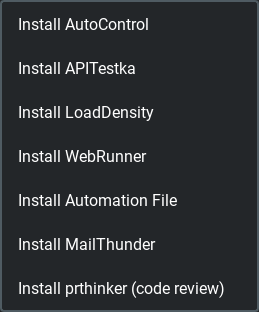
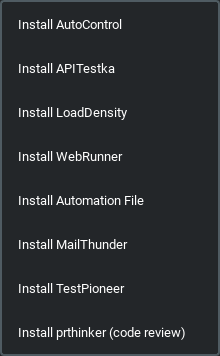
Install TestPioneer from the Install menu

diff --git a/pybreeze/extend_multi_language/extend_traditional_chinese.py b/pybreeze/extend_multi_language/extend_traditional_chinese.py
@@ -99,6 +99,7 @@ pybreeze_traditional_chinese_word_dict = {
     "install_menu_webrunner": "安裝 WebRunner",
     "install_menu_automation_file": "安裝 Automation File",
     "install_menu_mail_thunder": "安裝 MailThunder",
+    "install_menu_test_pioneer": "安裝 TestPioneer",
     "install_menu_prthinker": "安裝 prthinker（程式碼審查）",
     "install_menu_tools_install_menu_label": "工具",
     "install_menu_tools_install_build_tools": "安裝 Build Tools",

diff --git a/pybreeze/extend_multi_language/extend_english.py b/pybreeze/extend_multi_language/extend_english.py
@@ -104,6 +104,7 @@ pybreeze_english_word_dict = {
     "install_menu_webrunner": "Install WebRunner",
     "install_menu_automation_file": "Install Automation File",
     "install_menu_mail_thunder": "Install MailThunder",
+    "install_menu_test_pioneer": "Install TestPioneer",
     "install_menu_prthinker": "Install prthinker (code review)",
     "install_menu_tools_install_menu_label": "Tools",
     "install_menu_tools_install_build_tools": "Install Build Tools",

diff --git a/test/test_utils/test_install_menu.py b/test/test_utils/test_install_menu.py
@@ -144,6 +144,7 @@ class TestTheAutomationInstallMenu:
             (words.get("install_menu_webrunner"), "je_web_runner"),
             (words.get("install_menu_automation_file"), "automation_file"),
             (words.get("install_menu_mail_thunder"), "je_mail_thunder"),
+            (words.get("install_menu_test_pioneer"), "test_pioneer"),
         ]
         assert menu.actions()[-1].text() == words.get("install_menu_prthinker")
 

diff --git a/pybreeze/pybreeze_ui/menu/install_menu/automation_menu/build_automation_install_menu.py b/pybreeze/pybreeze_ui/menu/install_menu/automation_menu/build_automation_install_menu.py
@@ -24,6 +24,7 @@ PYPI_PACKAGES: tuple[tuple[str, str], ...] = (
     ("install_menu_webrunner", "je_web_runner"),
     ("install_menu_automation_file", "automation_file"),
     ("install_menu_mail_thunder", "je_mail_thunder"),
+    ("install_menu_test_pioneer", "test_pioneer"),
 )
 
 

diff --git a/progress.md b/progress.md
@@ -15,5 +15,5 @@ Cross-repo and workspace items live in `D:\Codes\progress.md` (relevant here: X-
 - **#92** [DECIDE] The embedded JupyterLab has no token (`--ServerApp.token=`): the loopback bind keeps browsers and other machines out, but not other accounts on a shared machine (RDS, a lab Linux box), which get a kernel as the IDE user. Generate a token per launch and load the view with it? The Security › JupyterLab rule would change with it.
 - **#102** [BLOCKED] A report mail can wait forever: je_mail_thunder's `SMTPWrapper(host, port)` passes no timeout to `SMTP_SSL`, so a mail server that accepts the connection and then stalls holds the report-mail thread (`extend/mail_thunder_extend/mail_thunder_setting.py`, `send_report`) with no end, and the run window never says whether the report went. Needs a `timeout` argument in MailThunder (`je_mail_thunder/smtp/smtp_wrapper.py:20`); then pass 30 s here.
 - **#103** [BLOCKED] PyBreeze's automation keywords are never highlighted: `syntax_extend_package` registers them for `.json`, `.yml` and `.yaml` (`pybreeze_ui/syntax/syntax_extend.py`), but JEditor has built-in rules for those suffixes, so `CodeEditor.reset_highlighter` gets a `GenericHighlighter` from `highlighter_for`, and only `PythonHighlighter` reads the plugin registry (`je_editor/pyside_ui/code/syntax/generic_syntax.py:124`, `code_edit_plaintext.py:423-425` in `D:\Codes\JEDITOR` at d372c35). Needs JEditor's generic highlighter to add a registered language's words for the suffix, taking the colour as a theme colour key as its own rules do (PyBreeze registers `warning_output_color` and `diff_modified_marker_color`); the `architecture.md` §6 contract changes with it.
-- **#106** [DECIDE] `test_pioneer` is unpinned (`requirements.txt`, `pyproject.toml`, `dev.toml`), and before 0.1.34 it read a YAML file in the locale's encoding: on a Traditional Chinese Windows (cp950) TestPioneer "Run YAML" of a file with a non-ASCII character, which the editor saves as UTF-8, exits 1 with `UnicodeDecodeError` (`extend/process_executor/test_pioneer/test_pioneer_process_manager.py`). This repo's `.venv` has 0.1.30; 0.1.34 reads it as UTF-8. Should the dependencies require `test_pioneer>=0.1.34`?
+- **#106** [DECIDE] `test_pioneer` is unpinned (`requirements.txt`, `pyproject.toml`, `dev.toml`), and before 0.1.34 it read a YAML file in the locale's encoding: on a Traditional Chinese Windows (cp950) TestPioneer "Run YAML" of a file with a non-ASCII character, which the editor saves as UTF-8, exits 1 with `UnicodeDecodeError` (`extend/process_executor/test_pioneer/test_pioneer_process_manager.py`). This repo's `.venv` has 0.1.30; 0.1.34 reads it as UTF-8. `Install ▸ Automation ▸ Install TestPioneer` upgrades it by hand meanwhile. Should the dependencies require `test_pioneer>=0.1.34`?
 - **#108** [BLOCKED] The Traditional Chinese IDE still shows Mainland terms in JEditor's own entries, which PyBreeze does not define: the Run menu (`run_menu_label` 運行, `run_menu_run_program_label` 運行程式, `run_menu_run_on_shell_label` 在終端運行, ...), the font menus (`file_menu_font_label` / `text_menu_label_font` 字體, `font_size` 字體大小) and `editor_code_result` 程式運行結果 (`je_editor/utils/multi_language/traditional_chinese.py:54`, `:96-97` and on, in `D:\Codes\JEDITOR` at e1a8b12). PyBreeze's own entries use 執行, 字型, 外掛 and 終端機 (`test_traditional_chinese_uses_taiwan_terms`), so its menus now sit beside JEditor's 運行. Needs the words changed in JEditor; overriding them here would copy JEditor's English entries into both of PyBreeze's dictionaries.

diff --git a/docs/updates/2026-09-b.md b/docs/updates/2026-09-b.md
@@ -920,3 +920,13 @@ Continues [2026-09.md](2026-09.md), which passed the batch size limit. Index and
 - **Result / numbers**: 2401 tests in 131 files. `ruff check` clean.
 - **Files**: `pybreeze/pybreeze_ui/menu/install_menu/automation_menu/build_automation_install_menu.py`, `test/test_utils/test_install_menu.py`, `architecture_explore.md`
 - **Open items**: none.
+
+## U-20260924-302 · 2026-09-24 · Install TestPioneer from the Install menu · #feature #menu
+
+- **What**: the Automation menu runs TestPioneer, but Install ▸ Automation had an entry for every other automation module and none for it, so it could not be installed or upgraded from the IDE. An environment with test_pioneer older than 0.1.34 reads a YAML file in the locale's encoding and fails on a non-ASCII character on a cp950 Windows (progress #106); the entry is a way out of that without a terminal.
+- **Change**: `Install TestPioneer` (`安裝 TestPioneer`) after MailThunder in `PYPI_PACKAGES`, running `pip install -U test_pioneer` in a run window like the others.
+- **Tests**: `TestTheAutomationInstallMenu` expects the entry and its package, after MailThunder, prthinker still last.
+- **Result / numbers**: 2401 tests in 131 files. The full suite at c8741d6 (before this and U-20260924-301): 2385 passed, 15 skipped; both startup tests exit 0; gates clean. `ruff check` clean.
+- **Docs**: `images/menu_install.png` redone from the real submenu under dark_amber (it was 259 × 312, now 220 × 356 with the extra entry: the new one is rendered, not edited); the three READMEs' TestPioneer row; `architecture_explore.md` §5.5; progress #106 names the entry.
+- **Files**: `pybreeze/pybreeze_ui/menu/install_menu/automation_menu/build_automation_install_menu.py`, `pybreeze/extend_multi_language/extend_english.py`, `pybreeze/extend_multi_language/extend_traditional_chinese.py`, `test/test_utils/test_install_menu.py`, `images/menu_install.png`, `README.md`, `README/README_zh-TW.md`, `README/README_zh-CN.md`, `architecture_explore.md`, `progress.md`
+- **Open items**: #106 (unchanged: whether the dependency should require 0.1.34).

diff --git a/architecture_explore.md b/architecture_explore.md
@@ -207,7 +207,7 @@ call_X_multi_file_and_send()   → run_dir_files_with_package(..., True)
 
 `install_utils.install_packages()` 用 `build_task_process()` 開一個執行視窗，`start_module_process("pip", ["install", "-U", *packages])`：參數清單、不經 shell（以前借 JEditor 的 `ShellManager`，它用 `shell=True` 交給 `cmd.exe`，使用者選的資料夾名稱裡有 `&` 就會把指令切開）。多個套件一次 pip（建置工具以前是三個 pip 同時對同一個環境跑）。pip 用 IDE 選定的直譯器，沒選時照一般執行的退路。`install_package()` 是單一套件的寫法
 
-- `automation_menu/` — 七個自動化套件的一鍵安裝。**prthinker 例外**：不在 PyPI 上，第一次會問來源資料夾、記進設定，之後裝 `<path>[runner]`
+- `automation_menu/` — 八個自動化套件的一鍵安裝（PyPI 上的七個列在 `PYPI_PACKAGES`）。**prthinker 例外**：不在 PyPI 上，第一次會問來源資料夾、記進設定，之後裝 `<path>[runner]`
 - `tools_menu/` — 安裝 setuptools / build / wheel
 
 ---

diff --git a/README.md b/README.md
@@ -344,7 +344,7 @@ Once launched:
 | **WebRunner** | Browser driver integration, element location and interaction, web test scripting, reports |
 | **LoadDensity** | Concurrent request simulation, performance metrics, stress scenario management, reports |
 | **MailThunder** | SMTP sending, HTML report delivery, attachments, environment-variable configuration |
-| **TestPioneer** | YAML test definitions, template generation, structured execution |
+| **TestPioneer** | YAML test definitions, template generation, structured execution; `Install ▸ Automation ▸ Install TestPioneer` installs or upgrades it (0.1.34 and later read a YAML file as UTF-8 whatever the system locale) |
 | **File Automation** | Automated file and directory operations, batch processing |
 | **prthinker** | Chain-of-thought code review of a file or a Pull Request; settings in `~/.pybreeze/prthinker_setting.json`; installed from its own source folder via `Install ▸ Automation ▸ Install prthinker` (needs Python 3.12+) |
 

diff --git a/README/README_zh-TW.md b/README/README_zh-TW.md
@@ -344,7 +344,7 @@ start_editor(theme="dark_teal.xml")         # 任何 qt_material 主題
 | **WebRunner** | 瀏覽器驅動程式整合、元素定位與互動、Web 測試腳本、報告 |
 | **LoadDensity** | 併發請求模擬、效能指標、壓力情境管理、報告 |
 | **MailThunder** | SMTP 寄信、HTML 報告寄送、附件、以環境變數設定 |
-| **TestPioneer** | YAML 測試定義、範本產生、結構化執行 |
+| **TestPioneer** | YAML 測試定義、範本產生、結構化執行；`Install ▸ Automation ▸ Install TestPioneer` 可安裝或升級（0.1.34 起不論系統語系，都以 UTF-8 讀取 YAML 檔） |
 | **File Automation** | 自動化檔案與目錄操作、批次處理 |
 | **prthinker** | 對檔案或 Pull Request 進行思維鏈程式碼審查；設定存於 `~/.pybreeze/prthinker_setting.json`；透過 `Install ▸ Automation ▸ Install prthinker` 從它自己的原始碼資料夾安裝（需要 Python 3.12 以上） |
 

diff --git a/README/README_zh-CN.md b/README/README_zh-CN.md
@@ -344,7 +344,7 @@ start_editor(theme="dark_teal.xml")         # 任意 qt_material 主题
 | **WebRunner** | 浏览器驱动集成、元素定位与交互、Web 测试脚本、报告 |
 | **LoadDensity** | 并发请求模拟、性能指标、压力场景管理、报告 |
 | **MailThunder** | SMTP 发送、HTML 报告投递、附件、环境变量配置 |
-| **TestPioneer** | YAML 测试定义、模板生成、结构化执行 |
+| **TestPioneer** | YAML 测试定义、模板生成、结构化执行；`Install ▸ Automation ▸ Install TestPioneer` 可安装或升级（0.1.34 起无论系统区域设置，都以 UTF-8 读取 YAML 文件） |
 | **File Automation** | 自动化文件与目录操作、批量处理 |
 | **prthinker** | 对文件或 Pull Request 进行思维链代码审查；设置保存在 `~/.pybreeze/prthinker_setting.json`；通过 `Install ▸ Automation ▸ Install prthinker` 从它自己的源码文件夹安装（需要 Python 3.12+） |
 

diff --git a/docs/updates/README.md b/docs/updates/README.md
@@ -58,6 +58,7 @@ In the same commit: delete the item from `progress.md`, add a `#done` entry here
 
 | ID | Date | Title | Tags | Batch |
 |---|---|---|---|---|
+| U-20260924-302 | 2026-09-24 | Install TestPioneer from the Install menu | #feature #menu | [2026-09-b](2026-09-b.md) |
 | U-20260924-301 | 2026-09-24 | Build the automation Install menu from a table | #refactor #menu | [2026-09-b](2026-09-b.md) |
 | U-20260924-300 | 2026-09-24 | Correction to U-20260924-295: the keyword colours are not shown yet | #docs #jeditor | [2026-09-b](2026-09-b.md) |
 | U-20260924-299 | 2026-09-24 | clear and reset wipe the SSH terminal | #fix #ssh | [2026-09-b](2026-09-b.md) |
@@ -383,4 +384,4 @@ In the same commit: delete the item from `progress.md`, add a `#done` entry here
 | File | Period | Entries |
 |---|---|---:|
 | [2026-09.md](2026-09.md) | 2026-09 | 218 |
-| [2026-09-b.md](2026-09-b.md) | 2026-09 | 99 |
+| [2026-09-b.md](2026-09-b.md) | 2026-09 | 100 |
